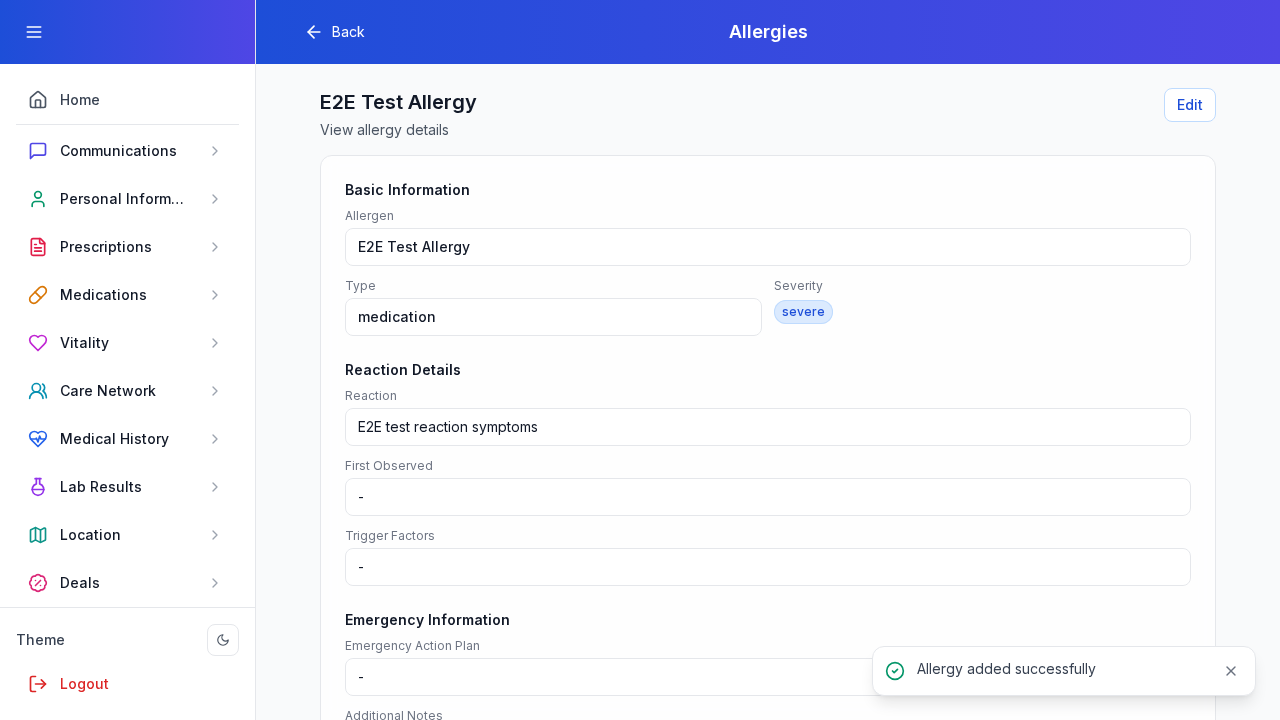
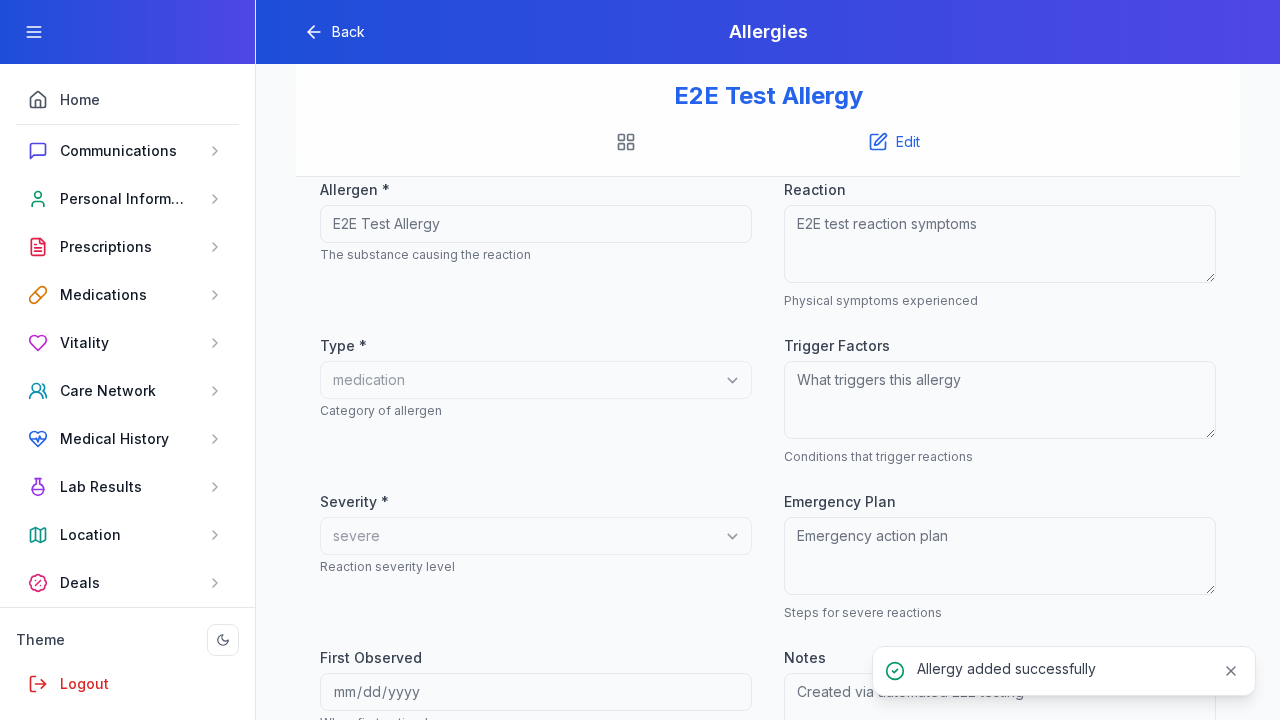
feat: final modern allergies UI with table and stacked layouts
- Implement clean sticky header with bigger blue title
- Add table layout: Excel-like with justified columns (w-32 labels, flex-1 fields)
- Add stacked layout: field names on top, tooltips below fields
- Layout toggle between table and stacked views
- Fix gap issues with proper sticky positioning and main container padding
- All DDL fields included with consistent styling
- Clean action buttons: Edit/Save/Delete/Cancel with icons and text
- Proper form handling with React Hook Form and TanStack Query
- Remove old sectioned view and formatDate dependencies

Final modern UI ready as reference for 50+ streams.

🤖 Generated with [Claude Code](https://claude.ai/code)

diff --git a/tests/e2e/allergies.spec.ts b/tests/e2e/allergies.spec.ts
@@ -63,7 +63,7 @@ test.describe('Allergies CRUD - DDL Verified Tests', () => {
     
     // Enter edit mode and modify
     await page.click('button:has-text("Edit")')
-    await expect(page.locator('text=Update allergy information')).toBeVisible()
+    await expect(page.locator('button:has-text("Save")')).toBeVisible()
     
     const updatedNotes = 'UPDATED - E2E edit test successful'
     await page.fill('textarea[name="notes"]', updatedNotes)
